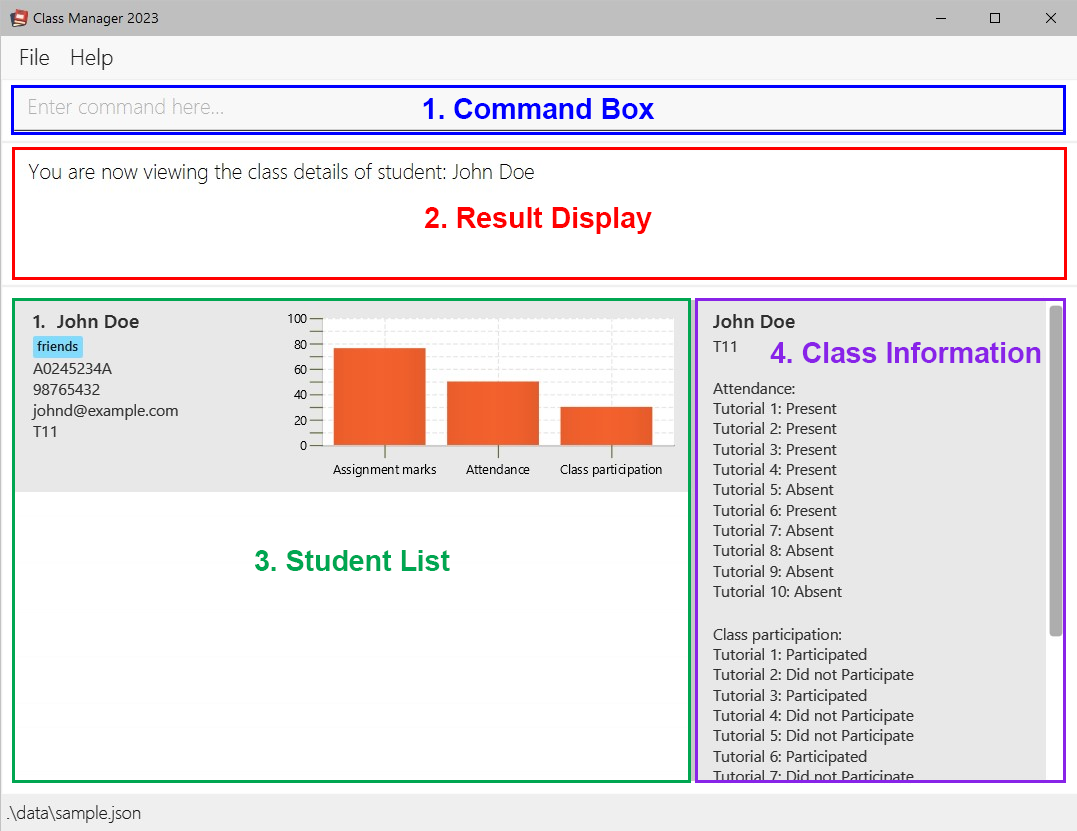
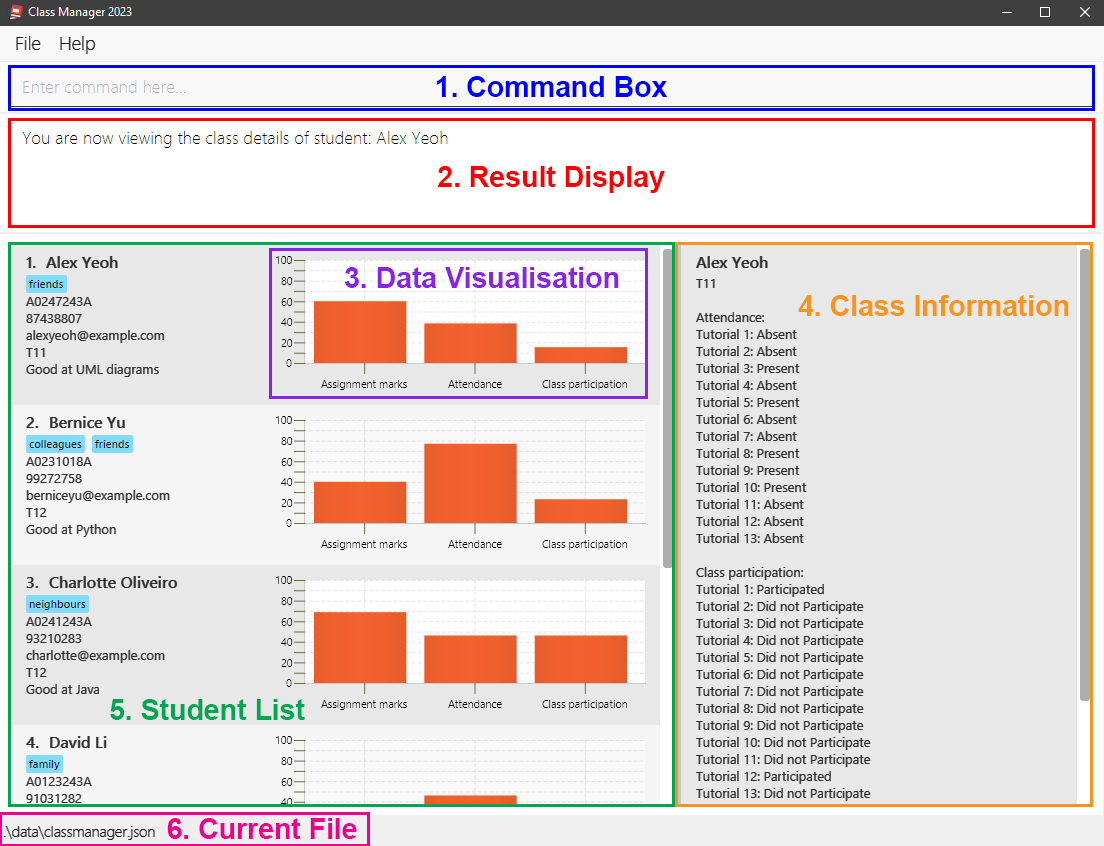
Update UG and DG
Edited GUI overview with blurred image. Added to planned enhancement section of DG. Added placeholder for data viz section under UG features.

Changed region(s): [[0.0, 0.0, 1.0, 1.0]]

diff --git a/docs/UserGuide.md b/docs/UserGuide.md
@@ -66,16 +66,18 @@ This user guide is your key to mastering **Class Manager 2023**, with step-by-st
 
 # GUI Overview
 
-The image below shows an annotated overview of **Class Manager 2023's** GUI:
+The blurred image below shows an annotated overview of **Class Manager 2023's** GUI:
 
-<img alt="Gui" src="images/GUI-overview.png" width="700"> </br>
+<img alt="Gui" src="images/GUI-overview-blur.png" width="700"> </br>
 
-The **GUI** is split up into 4 main sections.
+The **GUI** has 6 notable sections:
 
 1. **Command Box** - This is where you can type in commands to execute.
 2. **Result Display** - This is where the results of the commands and any errors will be displayed.
-3. **Student List** - This is where the list of students will be displayed.
+3. **Data Visualisation** - This is where the average grades, attendance and class participation percentages of a student will be displayed.
 4. **Class Information** - This is where the class information of the selected student, such as attendance, class participation and assignment grades, will be displayed.
+5. **Student List** - This is where the list of students will be displayed.
+6. **Current File** - This is where the current file path of the loaded data file will be displayed.
 
 --------------------------------------------------------------------------------------------------------------------
 
@@ -122,6 +124,10 @@ The **GUI** is split up into 4 main sections.
 Student Number refers to the unique matriculation number of a NUS student. In **Class Manager 2023**, it must begin with the capital letter 'A', followed by 1 or more consecutive digits, and end with a single alphabetical character. Student Number must not be blank as well.
 
 **Class Manager 2023** uses the Student Number to uniquely identify each student in most commands. The Student Number is not case-sensitive. e.g. Student Number `A123V` and `A123v` refers to the same student.
+
+## Data visualiation
+
+TODO: Ngee Yong to add details of what each bar graph shows (average grades, attendance and class participation percentages of a student).
 
 ## Command navigation
 

diff --git a/docs/DeveloperGuide.md b/docs/DeveloperGuide.md
@@ -888,4 +888,6 @@ testers are expected to do more *exploratory* testing.
 
 ## **Appendix: Planned Enhancements**
 
-1. The current keywords are case-sensitive. We plan to make keywords not case-sensitive in the future iteration. For example, currently `add` is case-sensitive. We will accept keywords such as `Add` in the future iteration.
+1. The current keywords are case-sensitive. We plan to make keywords not case-sensitive in the future iteration. For example, currently `add` is case-sensitive. We will accept keywords such as `Add` in the future.
+2. Class Numbers are currently limited to tutorials that begin with T. We plan to allow Class Numbers to be any alphanumeric string in the future.
+3. Clicking on a student in the student list will highlight the student. We plan to prevent this in the future as it affects the visibility of the student's contact details and visualised graphs.
